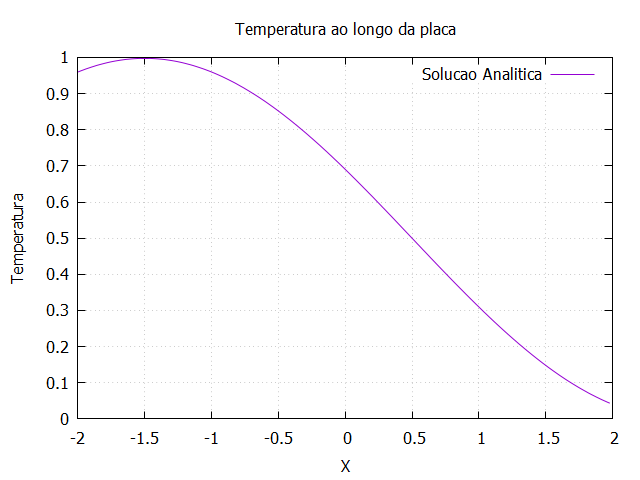
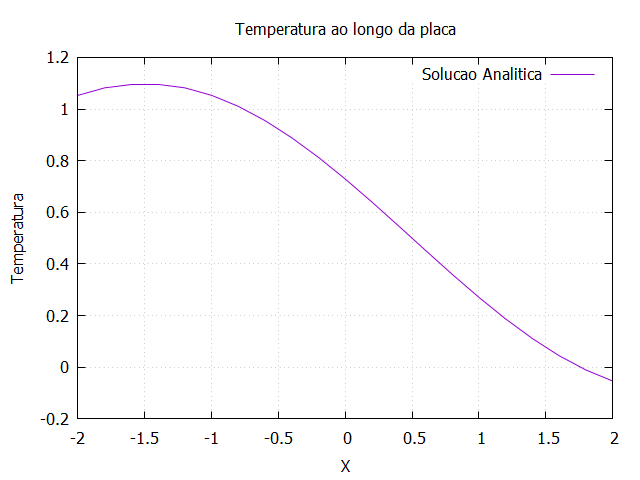
Correção para a função de avaliação da solução analítica

diff --git a/Trabalho 2/TDMA.cpp b/Trabalho 2/TDMA.cpp
@@ -3,7 +3,7 @@
 #include <vector>
 #include <iomanip>
 #include <fstream>
-//#include "alg_utilities.h"
+#include "alg_utilities.h"
 
 double analytic_solution(double x, double t);
 void tdma_solver(const std::vector<double>& a, const std::vector<double>& b, std::vector<double>& c, std::vector<double>& d, std::vector<double>& f);
@@ -113,7 +113,7 @@ void print_analytic(){
 	printer << "Iteration x T\n";
 
 	int i = 0;
-	for (double x = -2;  x <= 2; x+= 0.02){
+	for (double x = -2;  x <= 2; x+= 0.2){
 		double temp = analytic_solution(x, 1.0);
 		printer << i << ' ' << x << ' ' << temp << "\n";
 		i++;
@@ -121,10 +121,9 @@ void print_analytic(){
 }
 
 double analytic_solution(double x, double t){
-	const double NPI = 3.1415926535;
 	double sum = 0.0;
-	for (int k = 1; k < 100; k++){
-		sum += (1 / (2*k -1 )) * std::exp((-alfa * std::pow((2*k - 1), 2) * NPI * NPI * t)/L) * std::sin((2*k - 1) * NPI * (x - u*t)/L);
+	for (int k = 1; k < 500; k++){
+		sum += (1/(2*k - 1)) * std::exp((-alfa*(2*k - 1)*(2*k - 1)*NPI*NPI*t)/(L*L)) * std::sin((2*k - 1)*NPI*(x - u*t)/L);
 	}
 	return 0.5 - (2/NPI) * sum;
 }

diff --git a/Trabalho 2/alg_utilities.h b/Trabalho 2/alg_utilities.h
@@ -5,27 +5,11 @@
 #include <vector>
 #include <iostream>
 
-
-template<typename T>
-class Matrix {
-public:
-	typedef std::vector<T> Row; 
-private:
-	std::vector<Row> Mat;
-
-	unsigned int numberRows;
-	unsigned int numberColumns;
-public:
-	Matrix();
-	explicit Matrix( std::vector<Row>& vRows );
-	Matrix(unsigned int numRows, unsigned int numColumns);
-	Matrix(unsigned int numRows, unsigned int numColumns, T** data);
-	~Matrix();
-private:
-	void reserve(unsigned int numRows, unsigned int numColumns);
-};
-
-
+const double NPI = 3.1415926535;
+//coverts degree to radians:
+double torad(double value){
+	return value * NPI / 180 ;
+}
 //returns if a bidimensional array is diagonally domminant matrix
 bool isdiagonaldom(double** M, const int nrows, const int ncol){
 
